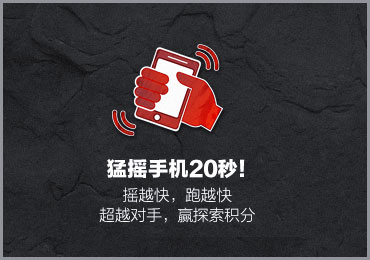
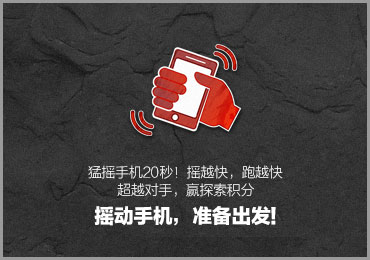
update

Changed region(s): [[0.2378, 0.5846, 0.773, 0.8923], [0.2973, 0.1538, 0.6541, 0.5538]]

diff --git a/www/js/mt.js b/www/js/mt.js
@@ -29,7 +29,7 @@ var AppRouter = Backbone.Router.extend({
       fntA.gameFinish =  false;
       fntA.shakerecord = 0;
       fntA.shakeEng = 0;
-      $('.playrecord').html();
+      $('.playrecord').html('0米');
       router.navigate('run');
     }
   	showSubFrame('runbox','qrcodebox');
@@ -161,18 +161,24 @@ function postLogin(){
       console.log(json);
       //var jsdata = eval('('+json+')');  
       var jsdata = json;
-      console.log('status='+ jsdata.status);
+      console.log(jsdata);
       fntA.playerName = jsdata.user_name;
       fntA.playerId = jsdata.user_id;
       fntA.playerAvatar = 'http://tnf-avatar.b0.upaiyun.com/'+jsdata.user_avatar;
       router.navigate('run');
       showSubFrame('runbox','qrcodebox');
+      $('.playerinfoa .playername').html(fntA.playerName);
+      if(jsdata.user_avatar!==''){
+        $('.playerinfoa img').attr('src',fntA.playerAvatar);
+      }
+      
       //console.log('mid='+ jsdata.data.mid );
     },
     error: function(xhr, type){
       console.log('Ajax error!')
     }
   });
+  fntRun();
 }
 function postRegister(){
   var userName  = $('#reguname').val()
@@ -223,7 +229,8 @@ function funMapload(){
 		'img/map/map_c_03.jpg',
 		'img/map/map_a_b.jpg' ,
 		'img/map/map_b_c.jpg' ,
-		'img/map/map_c_a.jpg' ];
+		'img/map/map_c_a.jpg' ,
+    'img/player-mini.png'];
   fntA.pcplayerName = [
     '何川',
     '李北基',
@@ -251,6 +258,7 @@ function fntRun(){
   fntA.image3 = new Image();  
   fntA.image4 = new Image();  
   fntA.image5 = new Image();
+  fntA.imageMini = new Image();
   fntA.w = 320;  
   fntA.h = 490; 
   var ctx0,ctx1;  
@@ -304,6 +312,7 @@ function fntRun(){
   function runInit() {
     ctx0 =  document.getElementById('canvas').getContext('2d');
     ctx1 =  document.getElementById('canvas2').getContext('2d');
+    ctxMini =  document.getElementById('minimap').getContext('2d');
     fntA.mapArr = new Array();
     y0 = 0;
     y1 = -1*fntA.h;
@@ -345,10 +354,12 @@ function fntRun(){
       fntA.image3.src = fntA.mapArr[0];  
       fntA.image4.src = fntA.mapArr[1];
       fntA.image5.src = fntA.mapArr[2];
+      fntA.imageMini.src = fntA.imgArr[12];
     var i = fntA.pcplayerName.length;
     var t = fRandomBy(0,i);
     $('.playerinfob .playername').html('TNF运动员  '+fntA.pcplayerName[t]);
     $('.playerinfob img').attr('src','img/player/' + fntA.pcplayerName[t] + '.jpg');
+
 
     setTimeout(function () {
       ctx0.drawImage(fntA.image0,0,y0,fntA.w,fntA.h);  
@@ -357,8 +368,10 @@ function fntRun(){
       ctx1.drawImage(fntA.image3,0,y3,fntA.w,fntA.h);  
       ctx1.drawImage(fntA.image4,0,y4,fntA.w,fntA.h);  
       ctx1.drawImage(fntA.image5,0,y5,fntA.w,fntA.h); 
+      ctxMini.drawImage( fntA.imageMini,9,430,29,28);
+      ctxMini.drawImage( fntA.imageMini,59,430,29,28);
       console.log('draw default map image');
-    }, 100);
+    }, 40);
 
 
   }
@@ -388,8 +401,10 @@ function fntRun(){
       if (fntA.requestId)
         window.cancelAFrame(fntA.requestId); 
       $('.player').removeClass('running'); 
-      $('.gameover').html('游戏结束！fntA.allmoveA :'+ fntA.allmoveA + ',fntA.allmoveB:' +fntA.allmoveB);
-      $('.gameover').show();      
+      //clear
+      //ctx0.clearRect(0,0,fntA.w,fntA.h);
+      //ctx1.clearRect(0,0,fntA.w,fntA.h); 
+      ctxMini.clearRect(0,0,fntA.w,fntA.h);     
     }
     function wayRoll(e) {
       if((e+1) > fntA.mapitem ){
@@ -400,7 +415,8 @@ function fntRun(){
     function render(time) {
       //clear
       ctx0.clearRect(0,0,fntA.w,fntA.h);
-      ctx1.clearRect(0,0,fntA.w,fntA.h);  
+      ctx1.clearRect(0,0,fntA.w,fntA.h); 
+      ctxMini.clearRect(0,0,fntA.w,fntA.h);
       //draw now
       var move = Math.floor(fntA.moveA);
       var moveB = Math.floor(fntA.moveB);
@@ -410,19 +426,20 @@ function fntRun(){
       y2 +=move; 
       //console.log("new: y0=" + y0 + ",y1=" + y1 + ",y2=" + y2 + ",move=" + move + ",fntA.moveA=" + fntA.moveA); 
       if(y0>=fntA.h){  
-        y0=move-2*fntA.h;  
+        //y0=move-2*fntA.h;  
+        y0 = Math.min(y1,y2) - fntA.h;
         fntA.alltimes++;
         fntA.image0.src = fntA.mapArr[wayRoll((Number(fntA.alltimes)+3))]; 
         console.log("y0 new image:" + fntA.image0.src + "fntA.alltimes:"+fntA.alltimes);
       }  
       if(y1>=fntA.h){  
-        y1=move-2*fntA.h;  
+        y1 = Math.min(y0,y2) - fntA.h;
         fntA.alltimes++;
         fntA.image1.src = fntA.mapArr[wayRoll((Number(fntA.alltimes)+3))];
         console.log("y1 new image:" + fntA.image1.src+ "fntA.alltimes:"+fntA.alltimes);
       }  
       if(y2>=fntA.h){  
-        y2=move-2*fntA.h; 
+        y2 = Math.min(y0,y1) - fntA.h;
         fntA.alltimes++; 
         fntA.image2.src = fntA.mapArr[wayRoll((Number(fntA.alltimes)+3))];
         console.log("y2 new image:" + fntA.image2.src+ "fntA.alltimes:"+fntA.alltimes);
@@ -439,19 +456,19 @@ function fntRun(){
       
       //console.log("new: y3=" + y3 + ",y4=" + y4 + ",y5=" + y5 + ",moveB=" + moveB + ",fntA.moveB=" + fntA.moveB); 
       if(y3>=fntA.h){  
-        y3=moveB-2*fntA.h;  
+        y3 = Math.min(y4,y5) - fntA.h; 
         fntA.alltimesB++;
         fntA.image3.src = fntA.mapArr[wayRoll((Number(fntA.alltimesB)+3))]; 
         console.log("y3 new image:" + fntA.image3.src+ "fntA.alltimesB:"+fntA.alltimesB + ",image id:" + (Number(fntA.alltimesB)+3));
       }  
       if(y4>=fntA.h){  
-        y4=moveB-2*fntA.h;  
+        y4 = Math.min(y3,y5) - fntA.h; 
         fntA.alltimesB++;
         fntA.image4.src = fntA.mapArr[wayRoll((Number(fntA.alltimesB)+3))];
         console.log("y4 new image:" + fntA.image4.src+ "fntA.alltimesB:"+fntA.alltimesB+ ",image id:" + (Number(fntA.alltimesB)+3));
       }  
       if(y5>=fntA.h){  
-        y5=moveB-2*fntA.h; 
+        y5 = Math.min(y3,y4) - fntA.h;
         fntA.alltimesB++; 
         fntA.image5.src = fntA.mapArr[wayRoll((Number(fntA.alltimesB)+3))];
         console.log("y5 new image:" + fntA.image5.src+ "fntA.alltimesB:"+fntA.alltimesB+ ",image id:" + (Number(fntA.alltimesB)+3));
@@ -464,13 +481,15 @@ function fntRun(){
       fntA.requestId = window.requestAFrame(render);
       //set stop process
       if(fntA.shakeEng < 3){
-        fntA.moveA = fntA.moveA * 0.995;
+        fntA.moveA = fntA.moveA * 0.99;
+        if (fntA.moveA<0.8) {fntA.moveA=0.8};
       }
       //console.log("old: y0=" + y0 + ",y1=" + y1 + ",y2=" + y2 + ",move=" + move + ",fntA.alltimes=" + fntA.alltimes);
       //if(fntA.moveA<=4){
       fntA.allmoveA +=move; 
       fntA.allmoveB +=moveB; 
       fntA.shakeEng = fntA.shakeEng -1;
+      if (fntA.shakeEng<1) { fntA.shakeEng = 1};
       $(".playerinfoa .playrecord").html(fntA.allmoveA + '米');
       $(".playerinfob .playrecord").html(fntA.allmoveB + '米');
 
@@ -490,25 +509,34 @@ function fntRun(){
       }
       //Game AI
       if(fntA.gameLevel ===1 ){
-        if( (fntA.allmoveA - fntA.allmoveB) >300 ){
-          fntA.moveB = fntA.moveB * 1.12;
+        if( (fntA.allmoveA - fntA.allmoveB) >100 ){
+          fntA.moveB = fntA.moveB * 1.01;
         }
-        if( (fntA.allmoveB - fntA.allmoveA) >50 ){
-          fntA.moveB = fntA.moveB * 0.992;
+        if( (fntA.allmoveB - fntA.allmoveA) >350 ){
+          fntA.moveB = fntA.moveB * 0.9992;
         }
-        fntA.moveB = Math.min( 3, Math.max(1,fntA.moveB));
+        fntA.moveB = Math.min( 6, Math.max(1,fntA.moveB));
       }else if(fntA.gameLevel ===2){
-        if( (fntA.allmoveA - fntA.allmoveB) >200 ){
-          fntA.moveB = fntA.moveB * 1.22;
+        if( (fntA.allmoveA - fntA.allmoveB) >30 ){
+          fntA.moveB = fntA.moveB * 1.05;
         }
-        if( (fntA.allmoveB - fntA.allmoveA) >200 ){
-          fntA.moveB = fntA.moveB * 0.998;
+        if( (fntA.allmoveB - fntA.allmoveA) >800 ){
+          fntA.moveB = fntA.moveB * 0.9992;
         }
-        fntA.moveB = Math.min( 4, Math.max(2,fntA.moveB));
+        fntA.moveB = Math.min( 7, Math.max(4,fntA.moveB));
       }
-
+      var tmpPlayerTopa , tmpPlayerTopb;
+      tmpPlayerTopa = 320 - fntA.moveA*8;
+      tmpPlayerTopb = 320 - fntA.moveB*10;
+      $('.playera').css('top',tmpPlayerTopa+'px');
+      $('.playerb').css('top',tmpPlayerTopb+'px');
       //the hard game level
-
+      //mini map
+      var tmpMinia = 430 - (fntA.allmoveA * fntA.h/9600)
+      ,   tmpMinib = 430 - (fntA.allmoveB * fntA.h/9600);
+      //console.log('tmpMinib:' +tmpMinia+',tmpMinib:' + tmpMinia);
+      ctxMini.drawImage( fntA.imageMini,9,tmpMinia,29,28);
+      ctxMini.drawImage( fntA.imageMini,59,tmpMinib,29,28);
 
     }
     // handle multiple browsers for requestAnimationFrame()
@@ -537,21 +565,22 @@ function fntRun(){
         break;
       // shake event
       case fntA.key + "_changebg":
-        console.log('fntA.gameOn:' + fntA.gameOn +'fntA.shakerecord:' + fntA.shakerecord +'fntA.gameFinish:' + fntA.gameFinish );
-        if(!fntA.gameOn && fntA.shakerecord<5){
+        //console.log('fntA.gameOn:' + fntA.gameOn +'fntA.shakerecord:' + fntA.shakerecord +'fntA.gameFinish:' + fntA.gameFinish );
+        if(!fntA.gameOn && fntA.shakerecord<15){
           showSubMask('gamemask','connection');
           fntA.gameOn = true;
-        }else if(fntA.gameOn && fntA.shakerecord===5 && !fntA.gameFinish){
+        }else if(fntA.gameOn && fntA.shakerecord===15 && !fntA.gameFinish){
           showSubMask('gamemask','countdown');
           //console.log('call 1 countdown');
           countdownNewTime(3);
         }
         shakeEventDidOccur();
 
-        if(fntA.moveA<4){
-          fntA.moveA = fntA.moveA * 1.09;
+        if(fntA.moveA<7){
+          fntA.moveA = fntA.moveA * 1.16;
         }
-        fntA.shakeEng = fntA.shakeEng + 3 ;
+        fntA.shakeEng = fntA.shakeEng + 4 ;
+        
 
         break;
     }
@@ -567,9 +596,9 @@ function shakeEventDidOccur() {
 $(document).ready(function(){
 	fntA.key = NewGuid();
 	var pageUrl = window.location.href;
-	pageUrl=pageUrl.replace(/pc.html#\/run/g,"m.html");
-  pageUrl=pageUrl.replace(/pc.html#run/g,"m.html");
-  pageUrl=pageUrl.replace(/pc.html/g,"m.html");
+	pageUrl=pageUrl.replace(/index.html#\/run/g,"m.html");
+  pageUrl=pageUrl.replace(/index.html#run/g,"m.html");
+  pageUrl=pageUrl.replace(/index.html/g,"m.html");
 
 	fntA.gameLevel = 1;
 	fntA.shakerecord = 0;

diff --git a/www/css/shake.css b/www/css/shake.css
@@ -1,0 +1,27 @@
+/* CSS Mobile Reset */
+html, body
+{
+ margin: 0;
+ padding: 0; 
+ border: 0;
+}
+body 
+{
+ font-family:Arial,  sans-serif;
+ line-height:1.5;
+ font-size:16px;
+ color: #000;
+ word-wrap: break-word;
+ -webkit-text-size-adjust: none;
+ height: 100%;
+ min-height: 500px;
+ background:#fcfcfc url(../img/mt_body_bg.jpg) top center no-repeat;
+}
+h1, h2, h3, h4, h5, h6{ font-weight: normal; padding: 0; margin: 0; }
+p img { float: left; margin: 0 10px 5px 0; padding: 0; }
+li {list-style-type: none;}
+img { border: 0; max-width: 100%; }
+table { width:auto; border-collapse: collapse;border-spacing: 0; }
+a { color: #3c3c3c; text-decoration: underline;}
+/** @group core body **/  
+

diff --git a/www/css/mt.css b/www/css/mt.css
@@ -104,7 +104,7 @@ line-height: 50px; text-align: center; color: #fff;}
 
 /**/
 .maskbox { display: none; }
-.gamemask { width: 760px; height: 475px; position: absolute; top: 104px; left: 78px; background: url(../img/bg_gamemask.png);}
+.gamemask { width: 760px; height: 475px; position: absolute; top: 104px; left: 78px; background: url(../img/bg_gamemask.png); }
 .submask { display: none; width: 370px; height: 260px; margin: 100px auto 0; background: #fff; opacity: 1; }
 .gamemask .connection { background: url(../img/bg_howplay.jpg) no-repeat;}
 .gamemask .howplay { background: url(../img/bg_connection.jpg) no-repeat;}

diff --git a/www/index.html b/www/index.html
@@ -73,13 +73,10 @@
           </div>
           <div class="maskbox gamemask ">
             <div class="submask howplay">
-              how to play
             </div>
             <div class="submask connection">
-              Successful connection
             </div>
             <div class="submask countdown">
-              countdown
             </div>
             <div class="submask winwithpoint">
               <a class="playagain" href="#/run/replay" title="再战一场">再战一场</a>
